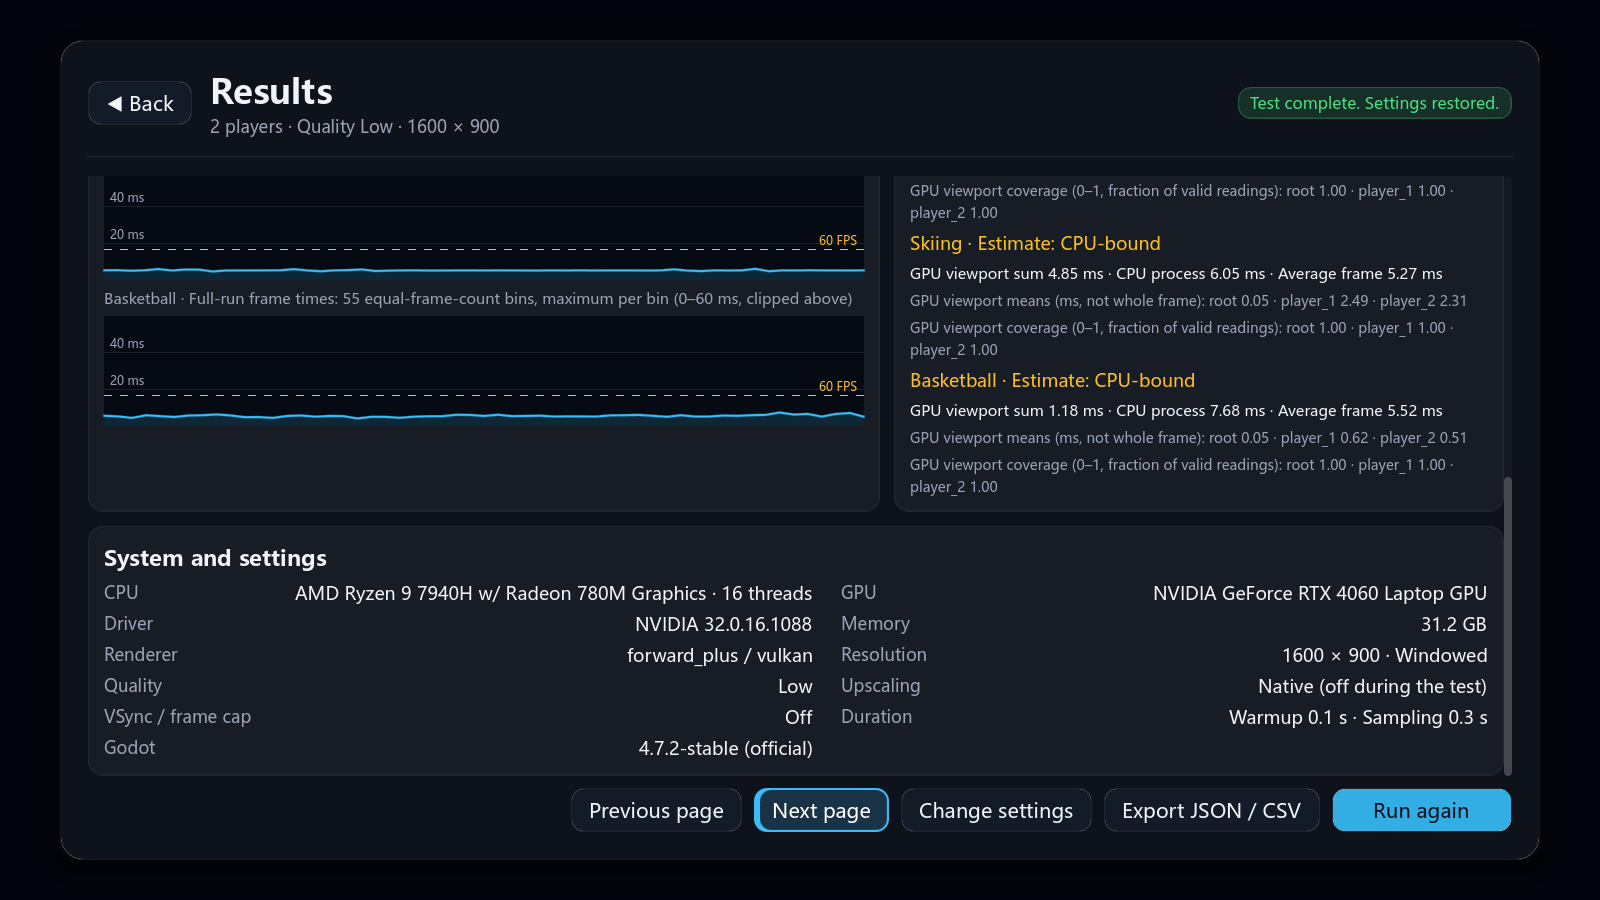
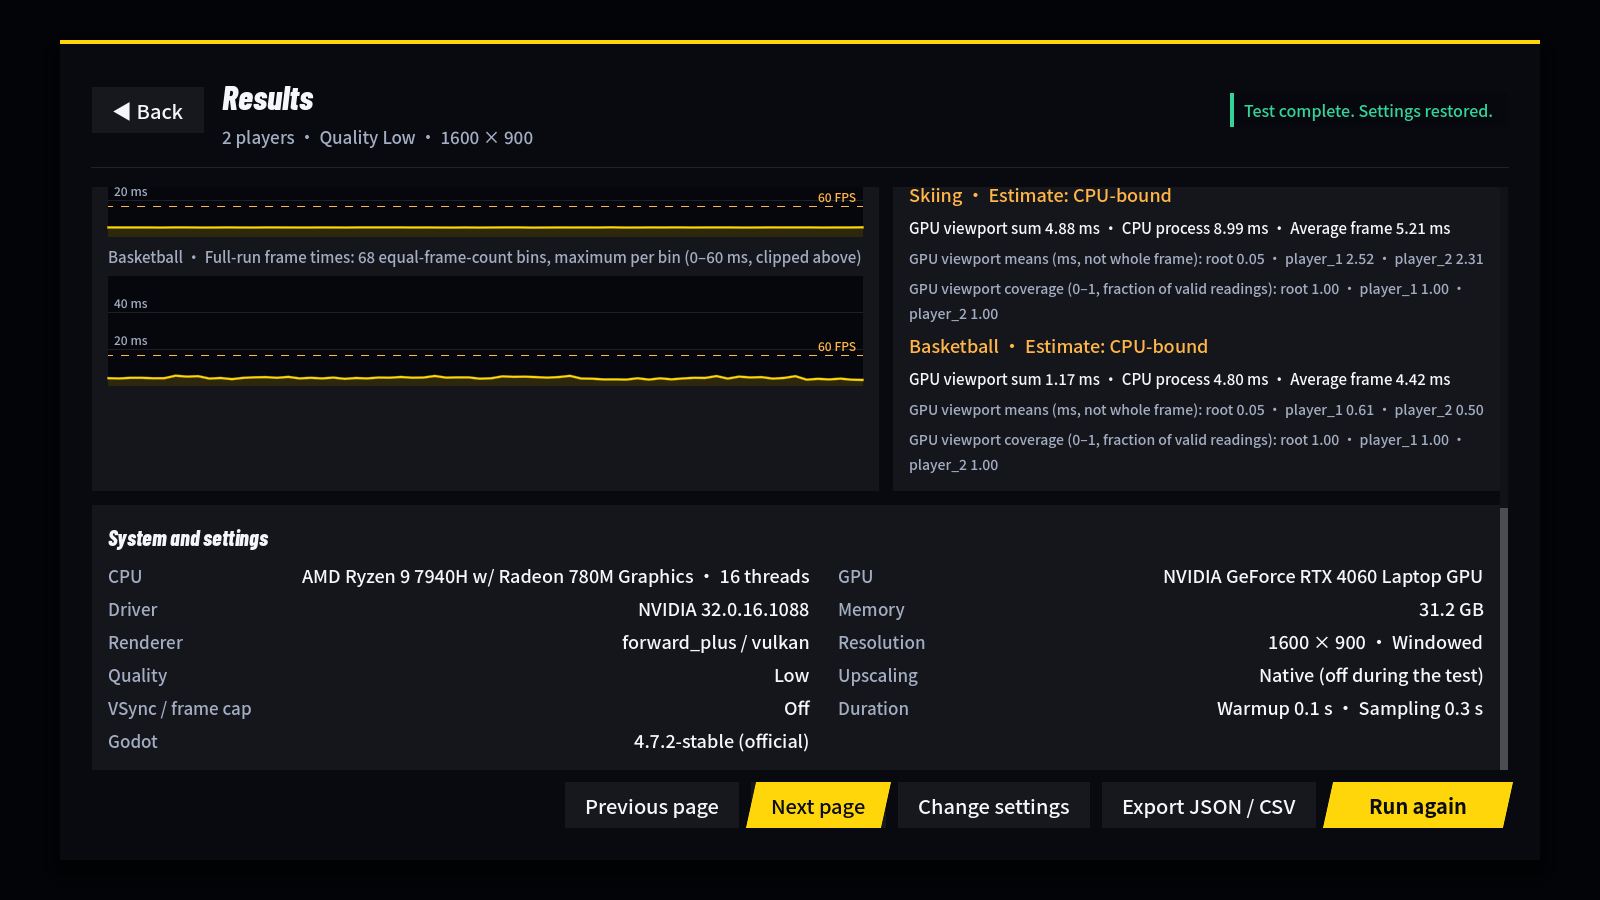
Benchmark page: new-theme screenshots, device chip under subtitle
The long adapter name squeezed the config subtitle into an awkward wrap,
so the device chip now sits under the subtitle. Option button arrows
follow the text colour so they stay visible on the accent bar.

diff --git a/docs/UI_THEME.md b/docs/UI_THEME.md
@@ -85,12 +85,15 @@ python tools/subset_fonts.py <google/fonts 的 NotoSansSC[wght].ttf>   # 需要 
 | ![单人挑战](screenshots/ui-theme-solo-zh.png) | ![Party tournament](screenshots/ui-theme-party-en.png) |
 | ![新手教学](screenshots/ui-theme-tutorial-zh.png) | ![Countdown](screenshots/ui-theme-countdown-en.png) |
 | ![篮球四人](screenshots/ui-theme-hud-zh.png) | ![Results](screenshots/ui-theme-results-en.png) |
+| ![性能测试配置](screenshots/bench-ui-config-zh.png) | ![Benchmark results](screenshots/bench-ui-results-en.png) |
 
 复现截图：
 
 ```sh
 <Godot> --path game --resolution 1600x900 res://tests/ui_capture.tscn -- --ui-shots=out/ui
 ```
+
+性能测试页的截图由 `python tools/test_benchmark.py --godot <Godot> --screenshots --players 2 --output out/bench` 生成，见 [性能测试](PERFORMANCE.md)。
 
 ## 没有覆盖
 
